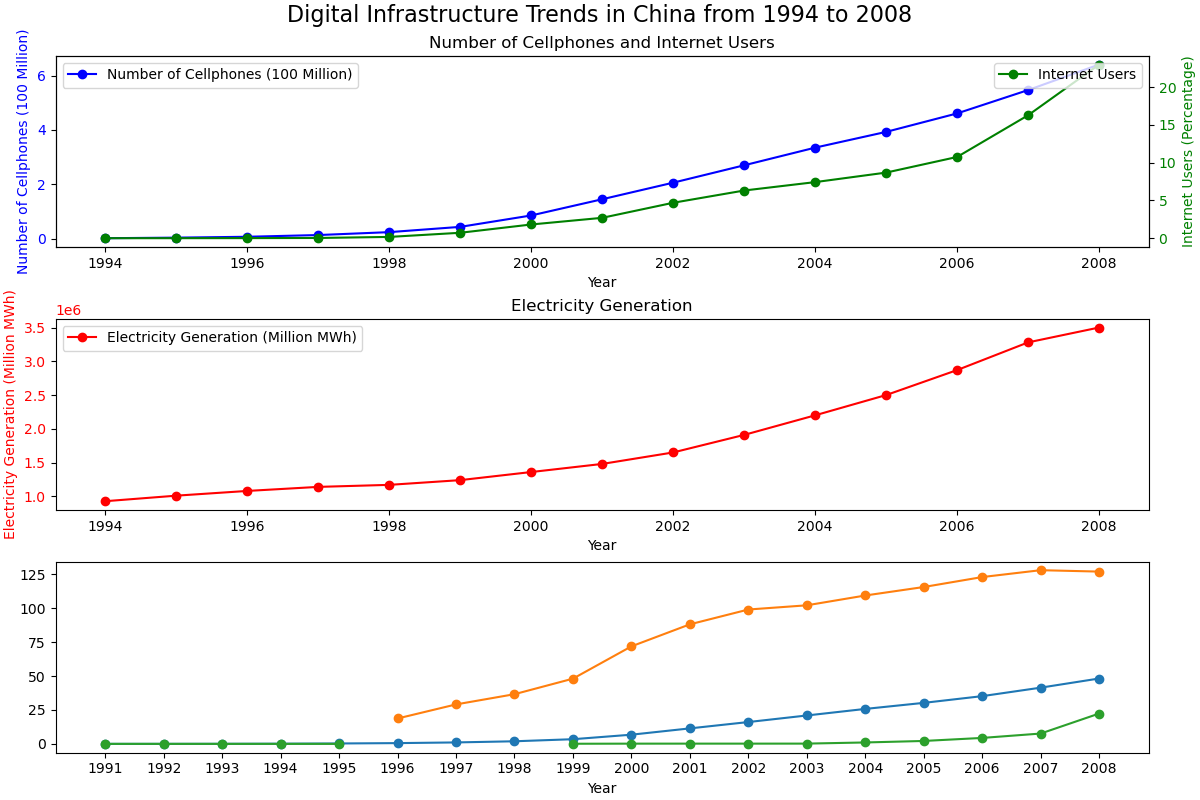
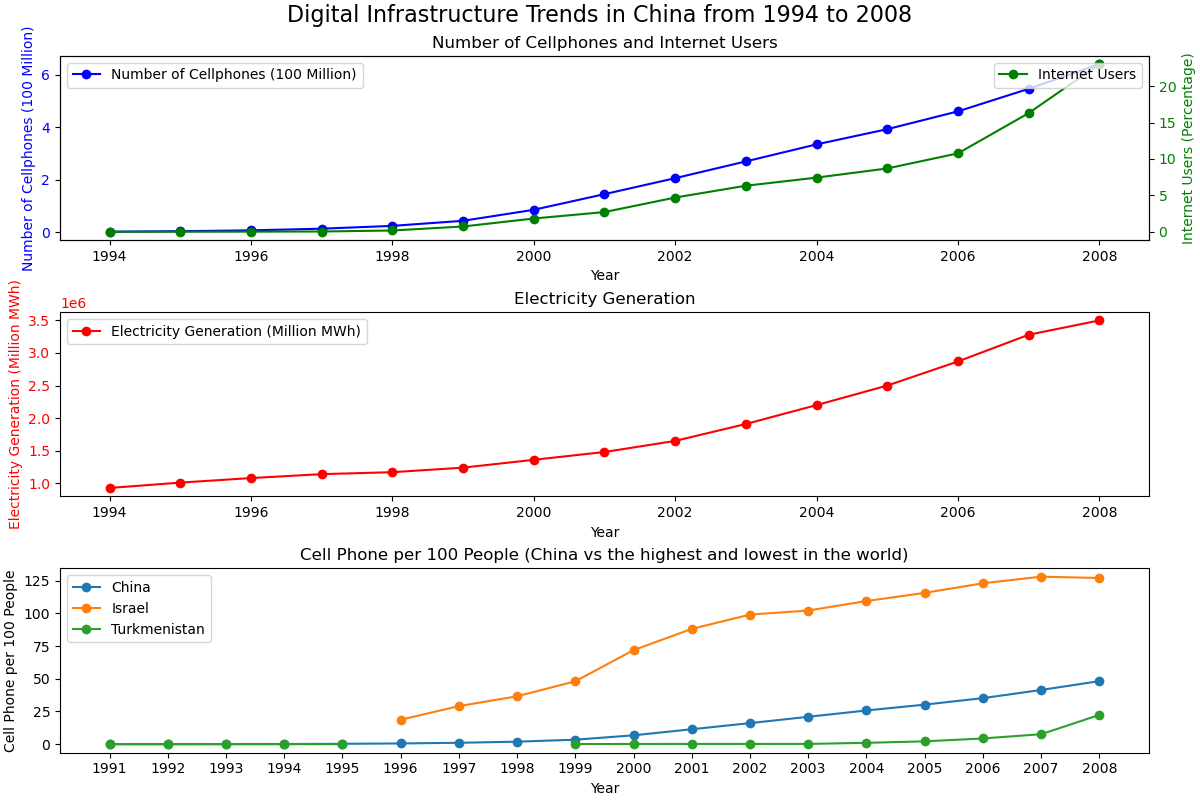
'added automatic legend to thrid plot in digital infrastructure and technology'

diff --git a/matplotlib-test.py b/matplotlib-test.py
@@ -207,7 +207,7 @@ def plot_life_quality(grouped_data, country):
     internet_users = grouped_data['Internet_Penetration_Rate']
 
     # Creating figure and subplots
-    fig, axs = plt.subplots(2, 1, figsize=(12, 10))
+    fig, axs = plt.subplots(3, 1, figsize=(12, 8), constrained_layout=True)
     fig.suptitle(f'Life Quality Trends in {country.capitalize()} from {start_year} to {end_year}', fontsize=16)
 
     # Subplot 1: Life Expectancy and GDP per Capita
@@ -258,7 +258,7 @@ def plot_economy(grouped_data, country):
 
     inflation = grouped_data['inflation_percent']
     
-    fig, axs = plt.subplots(2, 1, figsize=(12, 10))
+    fig, axs = plt.subplots(3, 1, figsize=(12, 8), constrained_layout=True)
     fig.suptitle(f'Economy Trends in {country.capitalize()} from {start_year} to {end_year}', fontsize=16)
 
     ax1 = axs[0]
@@ -302,7 +302,7 @@ def plot_energy(grouped_data, country):
     internet_users = grouped_data['Internet_Penetration_Rate']  # Already in percentage
 
     # Creating figure and subplots
-    fig, axs = plt.subplots(2, 1, figsize=(12, 10))
+    fig, axs = plt.subplots(3, 1, figsize=(12, 8), constrained_layout=True)
     fig.suptitle(f'Energy Trends in {country.capitalize()} from {start_year} to {end_year}', fontsize=16)
 
     # Subplot 1: Electricity Generation and Coal Consumption
@@ -350,7 +350,7 @@ def plot_technology(grouped_data, country):
     daily_income = grouped_data['daily_income']
     
     # Creating figure and subplots
-    fig, axs = plt.subplots(2, 1, figsize=(12, 10))
+    fig, axs = plt.subplots(3, 1, figsize=(12, 8), constrained_layout=True)
     fig.suptitle(f'Technology Trends in {country.capitalize()} from {start_year} to {end_year}', fontsize=16)
 
     # Subplot 1: Number of Cellphones and Internet Users
@@ -380,6 +380,25 @@ def plot_technology(grouped_data, country):
     ax3.legend(loc='upper left')
     ax4.legend(loc='upper right')
     ax3.set_title('Total GDP and Daily Income')
+
+    # Rick added a pivot table plot -------#
+    
+    technology_df_for_pivot = compare_by_internet(df, country)
+    #print(digital_infrastructure_df_for_pivot)
+    technology_pivot_table = technology_df_for_pivot.pivot_table('Internet_Penetration_Rate', index='year', columns='country')
+    plot_3 = axs[2]
+    plot_3.set_title(' '.join(['Internet Users (Percentage)', ''.join(['(', country]) , 'vs the highest and lowest in the world)']))
+    plot_3.set_xlabel('Year')
+    plot_3.set_ylabel('Internet Users (Percentage)')
+    plot_3.plot(technology_pivot_table, marker='o', linestyle='-', label=['Internet Users (Percentage)', '1', '1'])
+    plot_3.set_xticks(np.arange(technology_df_for_pivot['year'].min(), technology_df_for_pivot['year'].max() + 1, 1))
+    plot_3.legend(technology_pivot_table.columns)
+
+  
+   
+    # -------------------------------------#
+
+
 
     # Save the plot as a PNG file
     filename = f'output/technology_{country.lower()}_grouped.png'
@@ -429,19 +448,19 @@ def plot_digital_infrastructure(grouped_data, country):
     ax3.set_title('Electricity Generation')
 
     # Rick added a pivot table plot -------#
+
     digital_infrastructure_df_for_pivot = compare_by_cell_phone(df, country)
-    print(digital_infrastructure_df_for_pivot)
+    #print(digital_infrastructure_df_for_pivot)
     digital_infrastructure_pivot_table = digital_infrastructure_df_for_pivot.pivot_table('Cell_phone_per_capita', index='year', columns='country')
-    print(digital_infrastructure_pivot_table)
-    w = axs[2]
-    #xticks=df.index
-    #w.xticks()
-    w.set_xlabel('Year')
-    #new_yticks = np.arange(years.min(), years.max(), 1, dtype=int)
-    #w.xticks(new_yticks)
-    w.plot(digital_infrastructure_pivot_table, marker='o', linestyle='-')
-    w.set_xticks(np.arange(digital_infrastructure_df_for_pivot['year'].min(), digital_infrastructure_df_for_pivot['year'].max() + 1, 1))
-  
+    plot_3 = axs[2]
+    plot_3.set_title(' '.join(['Cell Phone per 100 People', ''.join(['(', country]) , 'vs the highest and lowest in the world)']))
+    plot_3.set_xlabel('Year')
+    plot_3.set_ylabel('Cell Phone per 100 People')
+    plot_3.plot(digital_infrastructure_pivot_table, marker='o', linestyle='-')
+    plot_3.set_xticks(np.arange(digital_infrastructure_df_for_pivot['year'].min(), digital_infrastructure_df_for_pivot['year'].max() + 1, 1))
+    plot_3.legend(digital_infrastructure_pivot_table.columns)
+
+
    
     # -------------------------------------#
 
@@ -451,4 +470,4 @@ def plot_digital_infrastructure(grouped_data, country):
     plt.savefig(filename)
     plt.show()
 
-plot_digital_infrastructure(plot_df, country)
+#plot_digital_infrastructure(plot_df, country)
